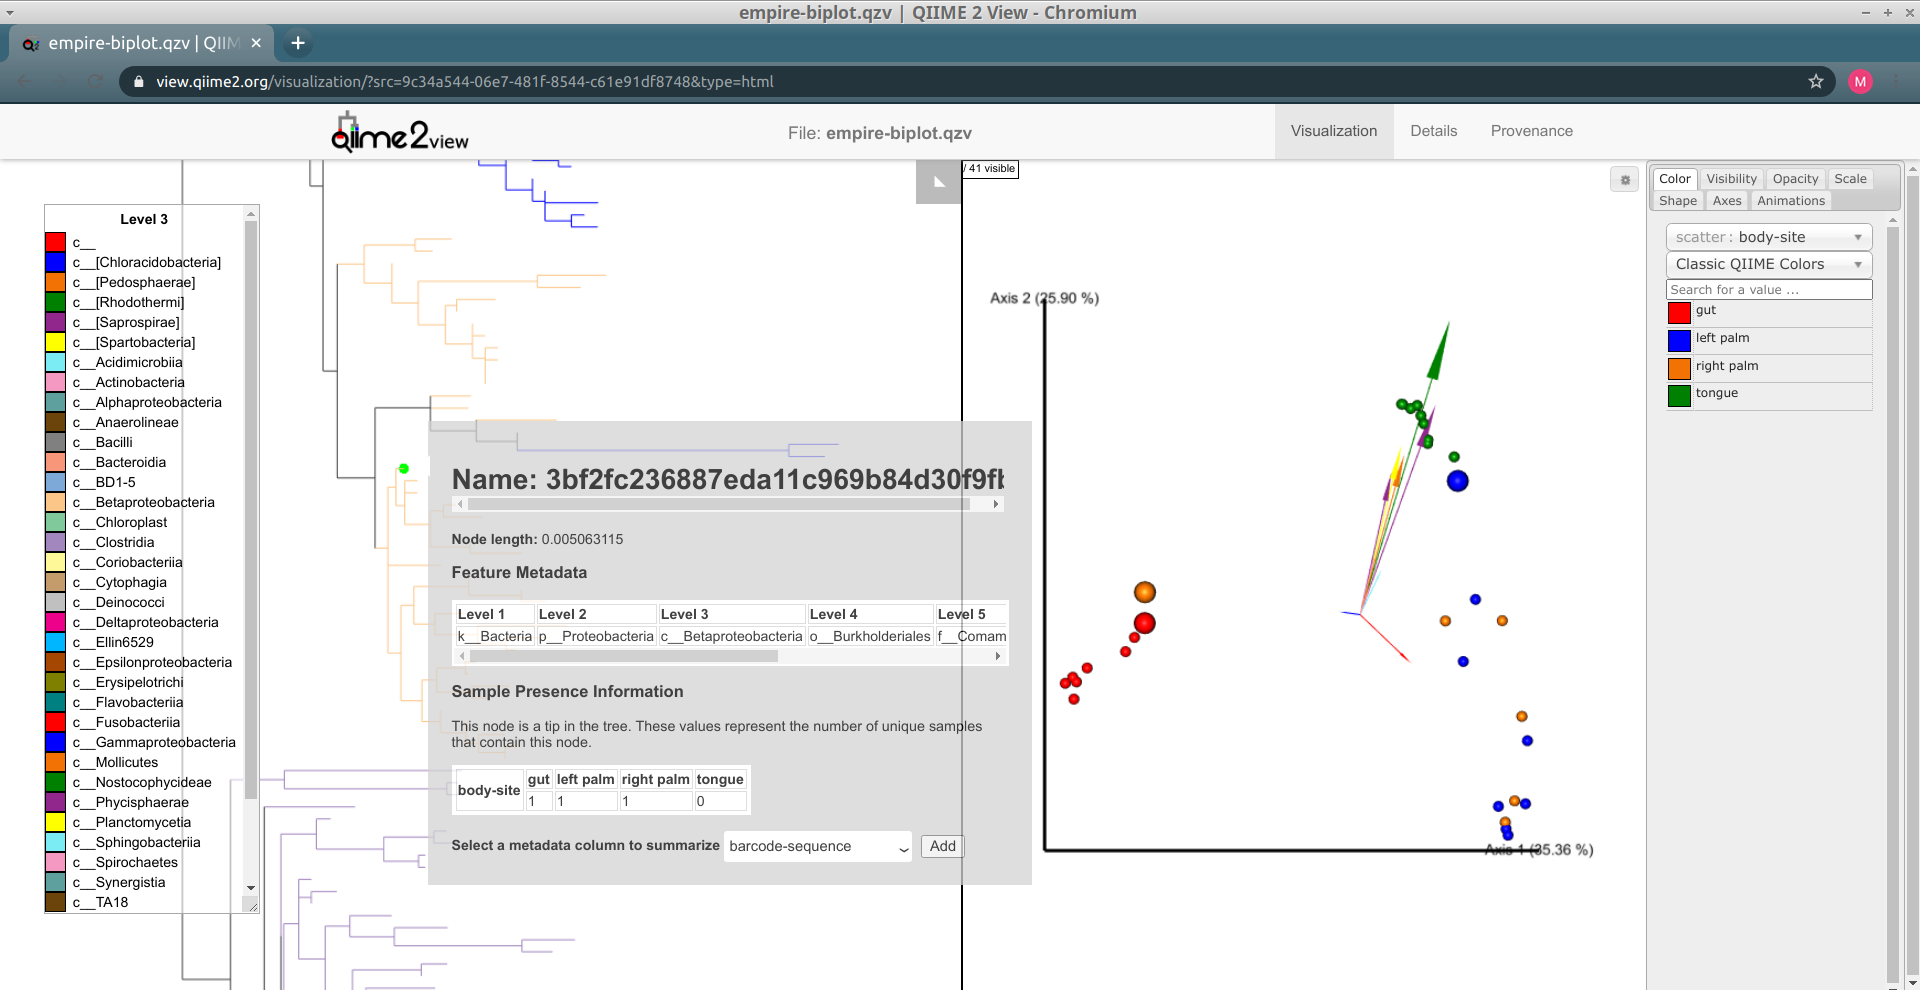
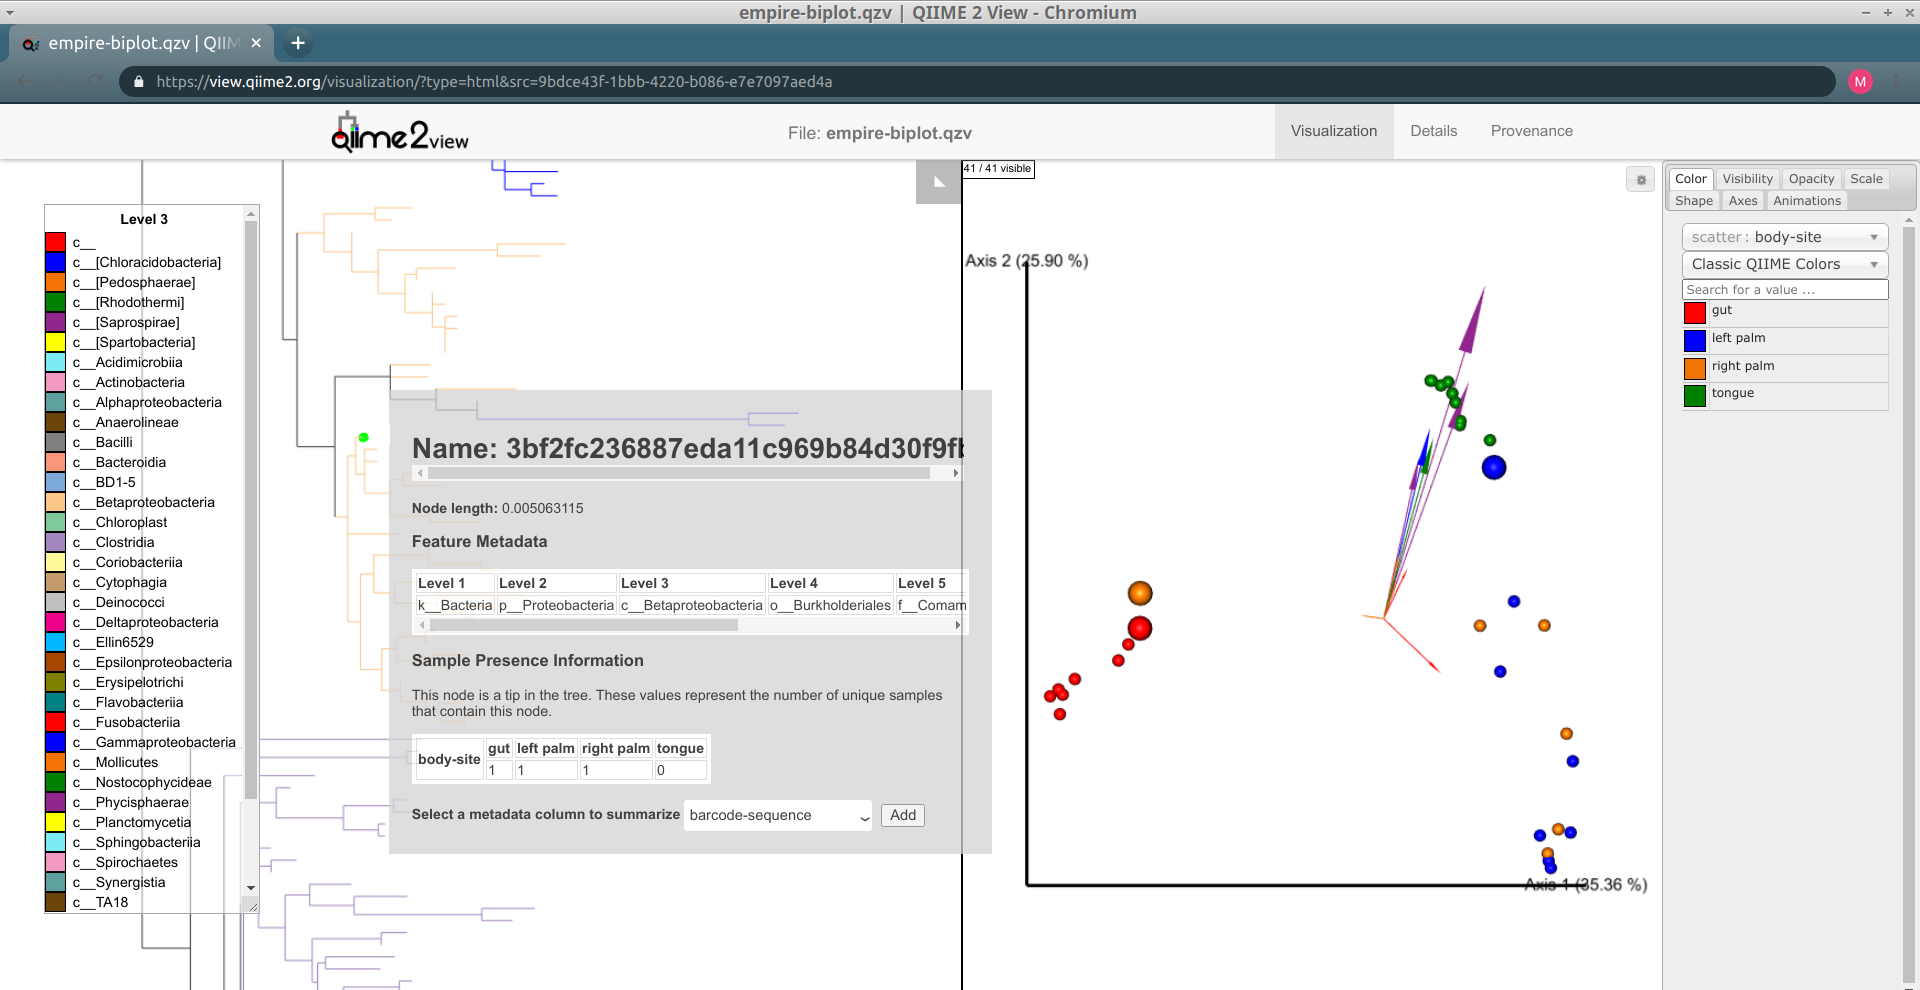
Fix that weird overlapping CSS bug in Empire plots (#416)
* BUG: fix #356

Also make the Emperor samples selected msg look pretty

* On second thought don't bump up the z-index

having the 'samples copied to clipboard' msg be "under" the border
is nice, but this messes up a ton of empress' z-indices. not worth
spending time un-messing-up today.

* DOC: update readme empire screenshots re: #356 fix

so now they don't look gross :D

* DOC: update empire fancy screenshot

* DOC: show body site summary in fancy screenshot

* Document intuition with ignore absent tips

diff --git a/empress/support_files/css/empress.css b/empress/support_files/css/empress.css
@@ -298,9 +298,16 @@ select:-moz-focusring {
     float: left;
     border-right: 2px solid black;
     /* Having this z-index puts this above the Emperor div, which is useful
-   * because it lets us draw the border-line above over Emperor
-   */
+     * because it lets us draw the border-line over Emperor.
+     */
     z-index: 1;
+}
+
+/* Hide scrollbars being created that mess up the page layout: see
+ * https://github.com/biocore/empress/issues/356 for morbid details.
+ */
+#emperor-in-empire {
+    overflow: hidden;
 }
 
 /* Convenience class for preventing user selection

diff --git a/README.md b/README.md
@@ -374,11 +374,13 @@ You may have noticed that in the Emperor plot one of the *Right Palm* samples is
 
 ![empire_sample_selection_gut_and_palm](docs/moving-pictures/img/empire_sample_selection_gut_and_palm.gif)
 
-Once the samples have been deselected (within a couple of seconds), select the outlier palm sample + one of the gut samples. What do you notice? You’ll see that comparatively few unique red or orange branches light up, suggesting that this sample shares many more features with the gut samples than the other palm samples.
+Once the samples have been deselected (within a couple of seconds), select the outlier palm sample + one of the gut samples. What do you notice? You’ll see that comparatively few unique red or orange branches light up, suggesting that this sample shares many more features with the gut samples than the other palm samples.\*
 
 ![empire_sample_selection_outlierpalm_plus_gut](docs/moving-pictures/img/empire_sample_selection_outlierpalm_plus_gut.gif)
 
 This is a good example of when your data can tell you something about your metadata that you may have missed. In reality, in this experiment, this palm sample was in fact mislabelled by accident.  
+
+\* _Note that this intuition relies partly on the `Ignore absent tips?` setting in Empress, which impacts how tips present in __none__ of the selected samples impact the tree coloring. By default, the parent nodes of these tips are allowed to be colored if another one of their descendant tips actually is present within the selected samples; but if `Ignore absent tips?` is disabled, then these "absent" tips will force their parents to remain uncolored._
 
 The integration between Empress and Emperor can go even further than this.
 Rather than selecting a group of samples manually, we may want to just select
